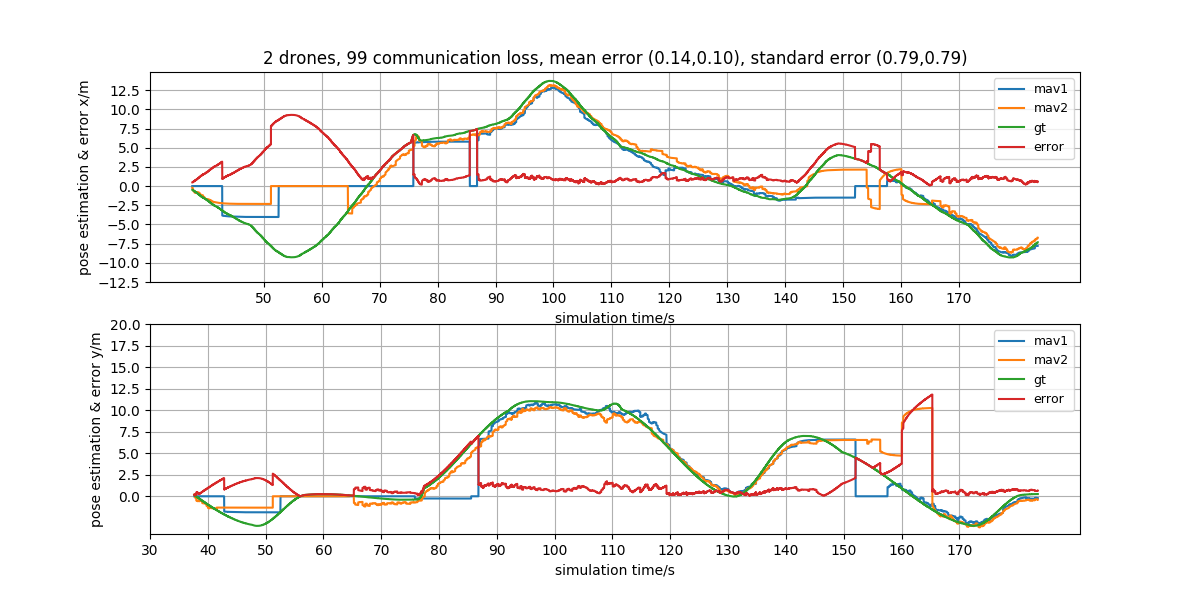
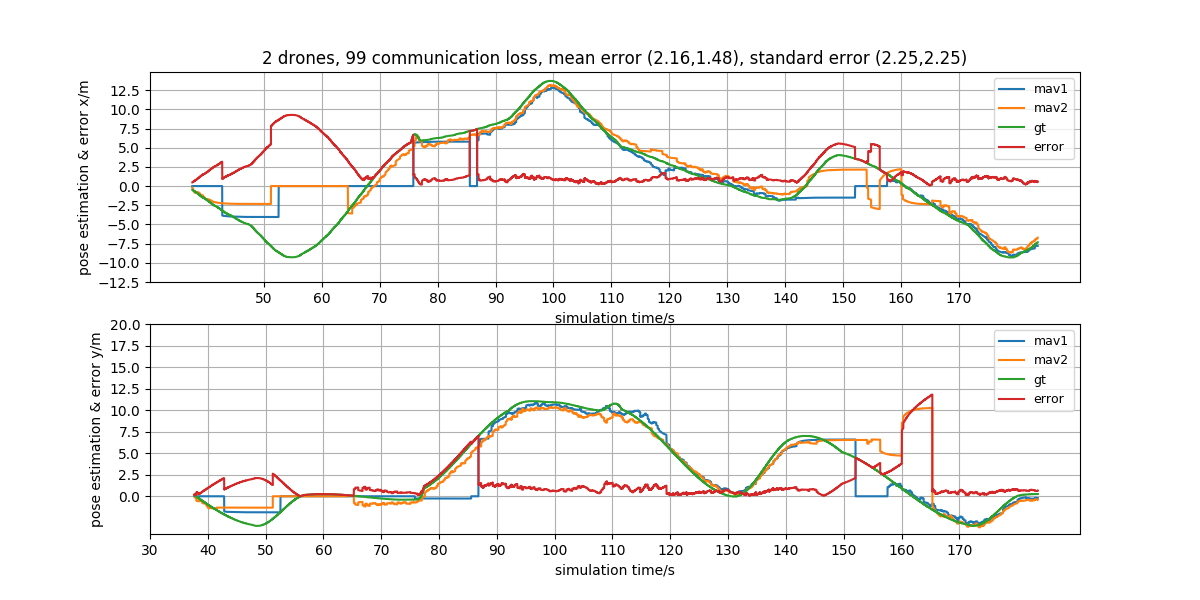
simulation exp update

Changed region(s): [[0.2158, 0.09, 0.8017, 0.12]]

diff --git a/simulation_exp/mav2_figure.py b/simulation_exp/mav2_figure.py
@@ -3,7 +3,7 @@ import matplotlib
 import matplotlib.pyplot as plt
 import numpy as np
 
-bag = rosbag.Bag("./mav2_99loss_random.bag")
+bag = rosbag.Bag("./mav2_noloss_random3.bag")
 
 N = bag.get_message_count()
 start_t = bag.get_start_time()
@@ -50,10 +50,10 @@ for topic, msg, t in bag.read_messages(topics=['/machine_2/target_tracker/pose']
     step += 1
 print("done")
 
-mu_x = np.mean(error_x)
-mu_y = np.mean(error_y)
-sigma_x = np.std(error_x)
-sigma_y = np.std(error_x)
+mu_x = np.mean(error_x[np.nonzero(times)])
+mu_y = np.mean(error_y[np.nonzero(times)])
+sigma_x = np.std(error_x[np.nonzero(times)])
+sigma_y = np.std(error_x[np.nonzero(times)])
 plt.rcParams['figure.figsize'] = (12.0, 6.0)
 plt.figure()
 plt.subplot(2,1,1)
@@ -67,7 +67,7 @@ plt.xticks([10*i for i in range(5,18)])
 plt.grid()
 plt.xlabel("simulation time/s")
 plt.ylabel("pose estimation & error x/m")
-plt.title("2 drones, 99 communication loss, mean error ({:.2f},{:.2f}), standard error ({:.2f},{:.2f})".format(mu_x,mu_y,sigma_x,sigma_y))
+plt.title("2 drones, 0 communication loss, mean error ({:.2f},{:.2f}), standard error ({:.2f},{:.2f})".format(mu_x,mu_y,sigma_x,sigma_y))
 
 plt.subplot(2,1,2)
 plt.plot(times[np.nonzero(times)],mav1_y[np.nonzero(times)],label="mav1")
